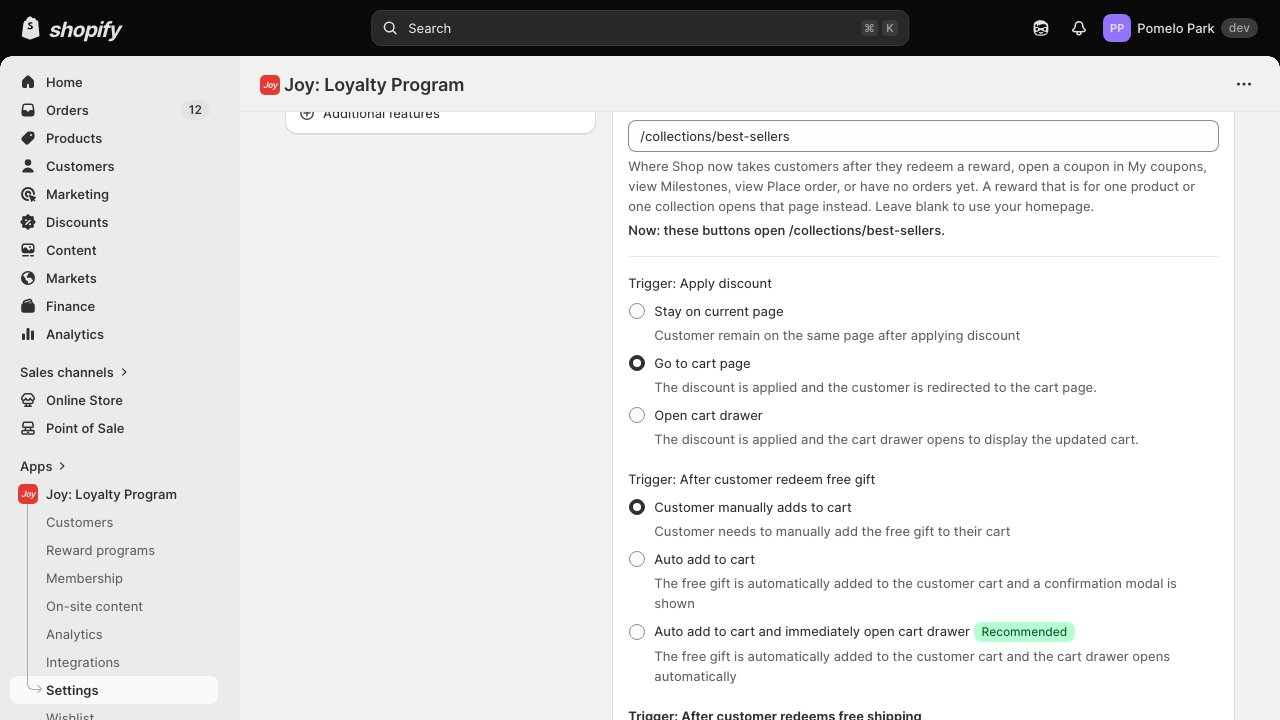
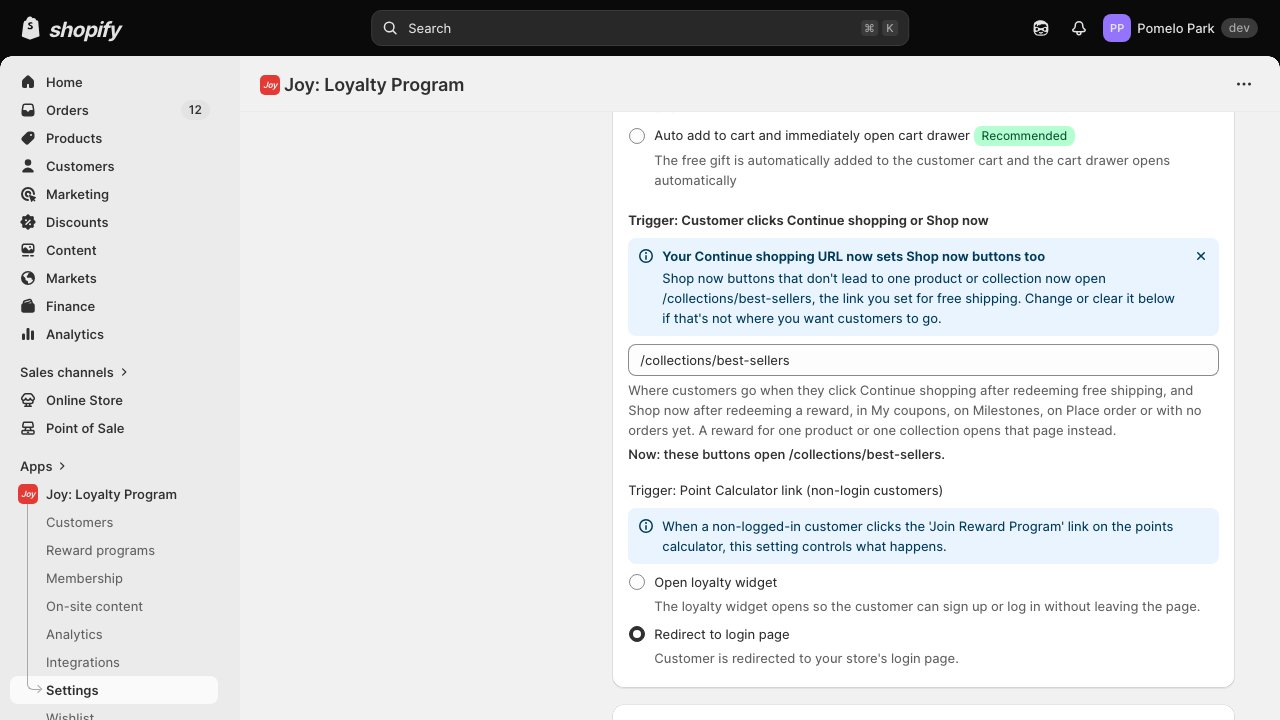
shop-now-links: option A, Continue shopping URL becomes the shared shopping link with a one-time notice

Changed region(s): [[0.4688, 0.1528, 0.9375, 0.9472], [0.4688, 0.9778, 0.7188, 1.0], [0.25, 0.1528, 0.3438, 0.1833]]

diff --git a/demos/shop-now-links/src/pages/Settings.jsx b/demos/shop-now-links/src/pages/Settings.jsx
@@ -1,5 +1,6 @@
 // Settings › General, scrolled to the "Redemption behavior" card (CustomerBehaviorSettings in the Joy admin).
-// The new "Trigger: Customer clicks Shop now" block sits first in that card; the rest of the card is unchanged.
+// The free-shipping "Continue shopping URL" becomes the shop's shopping link for every Shop now button: new heading,
+// label and help text, plus a one-time notice for shops that had already filled it.
 import React, {useEffect, useMemo, useState} from 'react';
 import {
   ActionList, Badge, Banner, BlockStack, Card, Checkbox, ChoiceList, Divider, Layout, Page, RadioButton, Select, Text, TextField,
@@ -27,7 +28,7 @@ const SECTIONS = [
 ];
 
 function initialLink(state, saved) {
-  if (state === 'blank') return '';
+  if (state === 'blank' || state === 'today') return state === 'today' ? saved.defaultLink : '';
   if (state === 'worst') return 'pomelopark.com/collections/winter-skincare-favourites-for-dry-and-sensitive-skin-gift-sets-under-50';
   return saved.defaultLink;
 }
@@ -38,36 +39,39 @@ export function Settings() {
   const {saved, save} = useLinks();
   const today = state === 'today';
   const initial = useMemo(() => ({
-    defaultLink: initialLink(state, saved),
-    apply: 'go_to_cart', freeGift: 'manual', freeShippingUrl: '', calc: 'go_to_login',
+    link: initialLink(state, saved),
+    apply: 'go_to_cart', freeGift: 'manual', calc: 'go_to_login',
   }), [state, saved]);
   const [form, setForm] = useState(initial);
   useEffect(() => setForm(initial), [initial]);
   const set = (key) => (value) => setForm((f) => ({...f, [key]: value}));
   const dirty = JSON.stringify(form) !== JSON.stringify(initial);
-  const error = linkError(form.defaultLink);
+  const error = linkError(form.link);
+  // A shop that had already filled the free-shipping URL sees a one-time notice that it now drives Shop now too.
+  const hadLink = state === 'default' || state === 'own';
+  const [noticeClosed, setNoticeClosed] = useState(false);
 
   // The real page scrolls to #customer-behavior-settings when opened from a deep link.
   useEffect(() => {
     if (state === 'loading' || state === 'error') return;
     // After the shell has reset the scroll for the new route.
-    const t = window.setTimeout(() => document.getElementById('customer-behavior-settings')?.scrollIntoView({block: 'start'}), 50);
+    const t = window.setTimeout(() => (document.getElementById('shopping-link') || document.getElementById('customer-behavior-settings'))?.scrollIntoView({block: 'center'}), 50);
     return () => window.clearTimeout(t);
   }, [state]);
 
   const onSave = () => {
     if (error) {
       notify('1 field needs attention', {error: true});
-      document.querySelector('#default-shop-now-link')?.focus();
+      document.querySelector('#shopping-link')?.focus();
       return;
     }
-    save({defaultLink: form.defaultLink.trim()});
+    save({defaultLink: form.link.trim()});
     notify('Settings saved');
   };
 
-  const nowLine = form.defaultLink.trim() && !error
-    ? `Now: these buttons open ${form.defaultLink.trim()}.`
-    : 'Now: these buttons open your homepage.';
+  const nowLine = form.link.trim() && !error
+    ? `Now: these buttons open ${form.link.trim()}.`
+    : 'Now (blank): Continue shopping, No orders yet and loyalty page Milestones open /collections/all; the other Shop now buttons open your homepage.';
 
   let right;
   if (state === 'loading') right = <LoadingView />;
@@ -100,30 +104,6 @@ export function Settings() {
                   : 'Control what happens when customers apply discounts, redeem rewards or click Shop now.'}
               </Text>
             </BlockStack>
-            {today ? null : (
-              <>
-                <BlockStack gap="200">
-                  <Text as="h3" variant="headingSm">Trigger: Customer clicks Shop now</Text>
-                  <TextField
-                    id="default-shop-now-link"
-                    label="Default Shop now link"
-                    labelHidden
-                    autoComplete="url"
-                    placeholder={LINK_PLACEHOLDER}
-                    value={form.defaultLink}
-                    onChange={set('defaultLink')}
-                    error={error}
-                    helpText={(
-                      <BlockStack gap="100">
-                        <span>Where Shop now takes customers after they redeem a reward, open a coupon in My coupons, view Milestones, view Place order, or have no orders yet. A reward that is for one product or one collection opens that page instead. Leave blank to use your homepage.</span>
-                        <span className="sl-now">{nowLine}</span>
-                      </BlockStack>
-                    )}
-                  />
-                </BlockStack>
-                <Divider />
-              </>
-            )}
             <ChoiceList
               title="Trigger: Apply discount"
               choices={[
@@ -145,15 +125,29 @@ export function Settings() {
               onChange={(v) => set('freeGift')(v[0])}
             />
             <BlockStack gap="200">
-              <Text as="h3" variant="headingSm">Trigger: After customer redeems free shipping</Text>
+              <Text as="h3" variant="headingSm">{today ? 'Trigger: After customer redeems free shipping' : 'Trigger: Customer clicks Continue shopping or Shop now'}</Text>
+              {!today && hadLink && !noticeClosed ? (
+              <Banner tone="info" title="Your Continue shopping URL now sets Shop now buttons too" onDismiss={() => setNoticeClosed(true)}>
+                <p>{`Shop now buttons that don't lead to one product or collection now open ${saved.defaultLink}, the link you set for free shipping. Change or clear it below if that's not where you want customers to go.`}</p>
+              </Banner>
+            ) : null}
               <TextField
-                label="Continue shopping URL"
+                id="shopping-link"
+                label={today ? 'Continue shopping URL' : 'Shopping link'}
                 labelHidden
                 autoComplete="url"
                 placeholder={LINK_PLACEHOLDER}
-                value={form.freeShippingUrl}
-                onChange={set('freeShippingUrl')}
-                helpText="Destination URL when the customer clicks Continue shopping after redeeming a free shipping reward. Leave blank to use the default /collections/all."
+                value={form.link}
+                onChange={set('link')}
+                error={today ? undefined : error}
+                helpText={today
+                  ? 'Destination URL when the customer clicks Continue shopping after redeeming a free shipping reward. Leave blank to use the default /collections/all.'
+                  : (
+                    <BlockStack gap="100">
+                      <span>Where customers go when they click Continue shopping after redeeming free shipping, and Shop now after redeeming a reward, in My coupons, on Milestones, on Place order or with no orders yet. A reward for one product or one collection opens that page instead.</span>
+                      <span className="sl-now">{nowLine}</span>
+                    </BlockStack>
+                  )}
               />
             </BlockStack>
             <ChoiceList

diff --git a/demos/shop-now-links/src/state/links.jsx b/demos/shop-now-links/src/state/links.jsx
@@ -1,6 +1,6 @@
 // One place for every "Shop now" destination, shared by Settings, the reward form and the milestone form.
 // The storefront picks: the button's own link → the one product / one collection the reward is for →
-// the default Shop now link in Settings → the homepage.
+// the shopping link in Settings (the old free-shipping Continue shopping URL) → where the button goes today.
 import React, {createContext, useContext, useMemo, useState} from 'react';
 
 /** Same rule the server already applies to the free-shipping "Continue shopping URL". */
@@ -13,7 +13,8 @@ export const linkError = (value) => {
 };
 
 /** Where Shop now goes, and the reason in words a merchant reads under the field. */
-export function shopNowTarget({ownLink = '', products = [], collections = [], giftType = 'products', defaultLink = ''}) {
+export function shopNowTarget({ownLink = '', products = [], collections = [], giftType = 'products', defaultLink = '',
+  fallback = '/', fallbackWhy = 'your homepage, because the shopping link in Settings is blank'}) {
   const own = ownLink.trim();
   if (own && !linkError(own)) return {url: own, why: 'the link above'};
   if (giftType === 'products' && products.length === 1) {
@@ -23,8 +24,8 @@ export function shopNowTarget({ownLink = '', products = [], collections = [], gi
     return {url: `/collections/${collections[0].handle}`, why: `the ${collections[0].title} collection, the only collection in this reward`};
   }
   const def = defaultLink.trim();
-  if (def && !linkError(def)) return {url: def, why: 'your default Shop now link in Settings'};
-  return {url: '/', why: 'your homepage, because no default Shop now link is set in Settings'};
+  if (def && !linkError(def)) return {url: def, why: 'the shopping link in Settings'};
+  return {url: fallback, why: fallbackWhy};
 }
 
 const LinksContext = createContext(null);

diff --git a/demos/shop-now-links/src/pages/MilestoneEdit.jsx b/demos/shop-now-links/src/pages/MilestoneEdit.jsx
@@ -29,7 +29,8 @@ export function MilestoneEdit() {
   useEffect(() => setForm(initial), [initial]);
   const set = (key) => (value) => setForm((f) => ({...f, [key]: value}));
   const dirty = JSON.stringify(form) !== JSON.stringify(initial);
-  const target = {ownLink: form.shopNowLink, giftType: 'none', defaultLink: state === 'blank' ? '' : saved.defaultLink};
+  const target = {ownLink: form.shopNowLink, giftType: 'none', defaultLink: state === 'blank' ? '' : saved.defaultLink,
+    fallbackWhy: 'your homepage (/collections/all on the loyalty page), because the shopping link in Settings is blank'};
 
   const onSave = () => {
     if (!today && linkError(form.shopNowLink)) {
@@ -61,7 +62,7 @@ export function MilestoneEdit() {
                     value={form.shopNowLink}
                     onChange={set('shopNowLink')}
                     target={target}
-                    help="Where the Shop now button of this milestone takes customers, in the widget, on the loyalty page and in the customer account page. Leave blank to use your default Shop now link."
+                    help="Where the Shop now button of this milestone takes customers, in the widget, on the loyalty page and in the customer account page. Leave blank to use the shopping link in Settings."
                   />
                 </div>
               )}

diff --git a/demos/shop-now-links/src/pages/RewardEdit.jsx b/demos/shop-now-links/src/pages/RewardEdit.jsx
@@ -84,7 +84,7 @@ export function RewardEdit() {
                     value={form.shopNowLink}
                     onChange={set('shopNowLink')}
                     target={target}
-                    help="Where Shop now takes customers after they redeem this reward or open its coupon. Leave blank and Joy picks: the product or collection page when the reward is for only one, otherwise your default Shop now link."
+                    help="Where Shop now takes customers after they redeem this reward or open its coupon. Leave blank and Joy picks: the product or collection page when the reward is for only one, otherwise the shopping link in Settings."
                   />
                 </div>
               )}

diff --git a/demos/shop-now-links/src/kit/scenario.jsx b/demos/shop-now-links/src/kit/scenario.jsx
@@ -3,7 +3,7 @@
 import React, {createContext, useCallback, useContext, useEffect, useMemo, useState} from 'react';
 
 export const STATES = [
-  {value: 'default', label: 'With this change', help: 'Default link set in Settings; reward and milestone left blank'},
+  {value: 'default', label: 'With this change', help: 'Shopping link already filled in Settings; reward and milestone left blank'},
   {value: 'own', label: 'Own links typed in', help: 'The reward and the milestone each have their own link'},
   {value: 'blank', label: 'Nothing set', help: 'Every link blank: Shop now picks the page by itself'},
   {value: 'today', label: 'Today', help: 'The screen as merchants see it now'},

diff --git a/demos/shop-now-links/REFERENCE.md b/demos/shop-now-links/REFERENCE.md
@@ -1,5 +1,5 @@
 # Màn thật mà demo này sửa
 
-Menu: Joy › Settings › General › card "Redemption behavior" (thêm "Trigger: Customer clicks Shop now" đầu card) · Joy › Reward programs › Redeeming programs › Free product › Edit › card "Setup rewards" (thêm "Shop now link (optional)") · Joy › Reward programs › Milestones › Edit › card "Milestone information" (thêm "Shop now link (optional)")
+Menu: Joy › Settings › General › card "Redemption behavior" (ô "Continue shopping URL" thành link mua sắm chung cho mọi nút Shop now: đổi tiêu đề, nhãn, help text, thêm banner một lần) · Joy › Reward programs › Redeeming programs › Free product › Edit › card "Setup rewards" (thêm "Shop now link (optional)") · Joy › Reward programs › Milestones › Edit › card "Milestone information" (thêm "Shop now link (optional)")
 Màn thật: dựng theo code avada/master f6a0583b 30/10/2026 (Setting.js, Details/General.js, Details/CustomerBehaviorSettings.js, SpendingProgram/FreeGiftProgram.js, Details/Spending.js, MilestoneV3Program.js, MilestoneAccordionItem.js); Settings › General và Reward programs › Redeeming programs đối chiếu ảnh chụp admin production 20/10/2026
 Ảnh so sánh: ngoài repo — ảnh Settings › General và Redeeming programs 20/10/2026, Jerry giữ trong Alex Brain (output/prototypes/joy-cross-app-menu/ref/loyalty-settings-general.jpg, loyalty-reward-programs-redeeming-tab.jpg)
